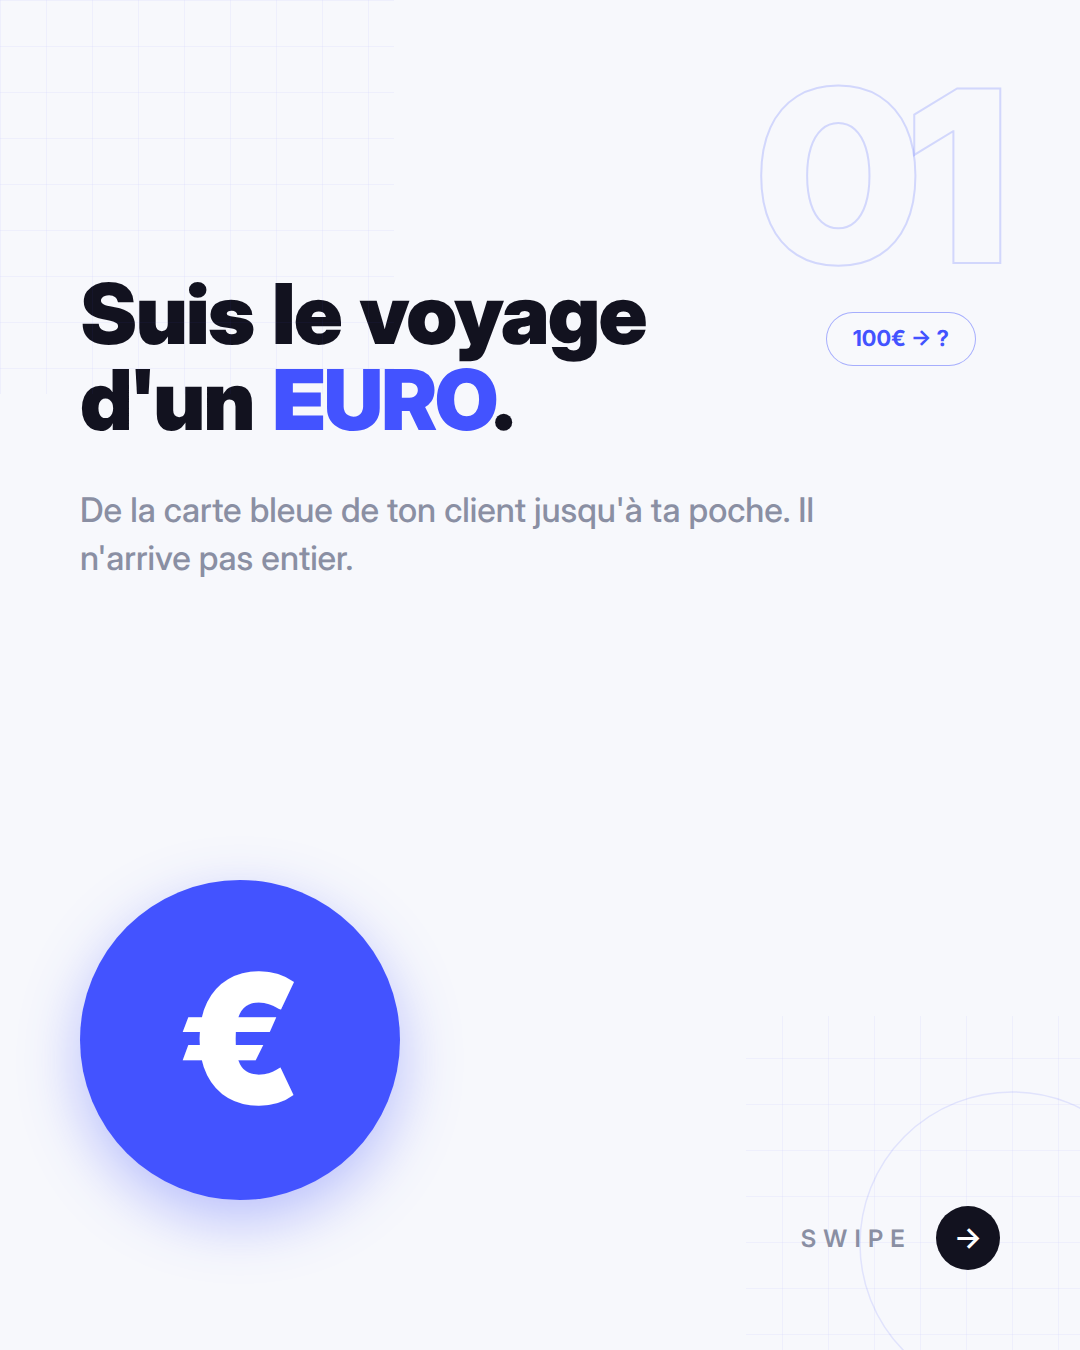
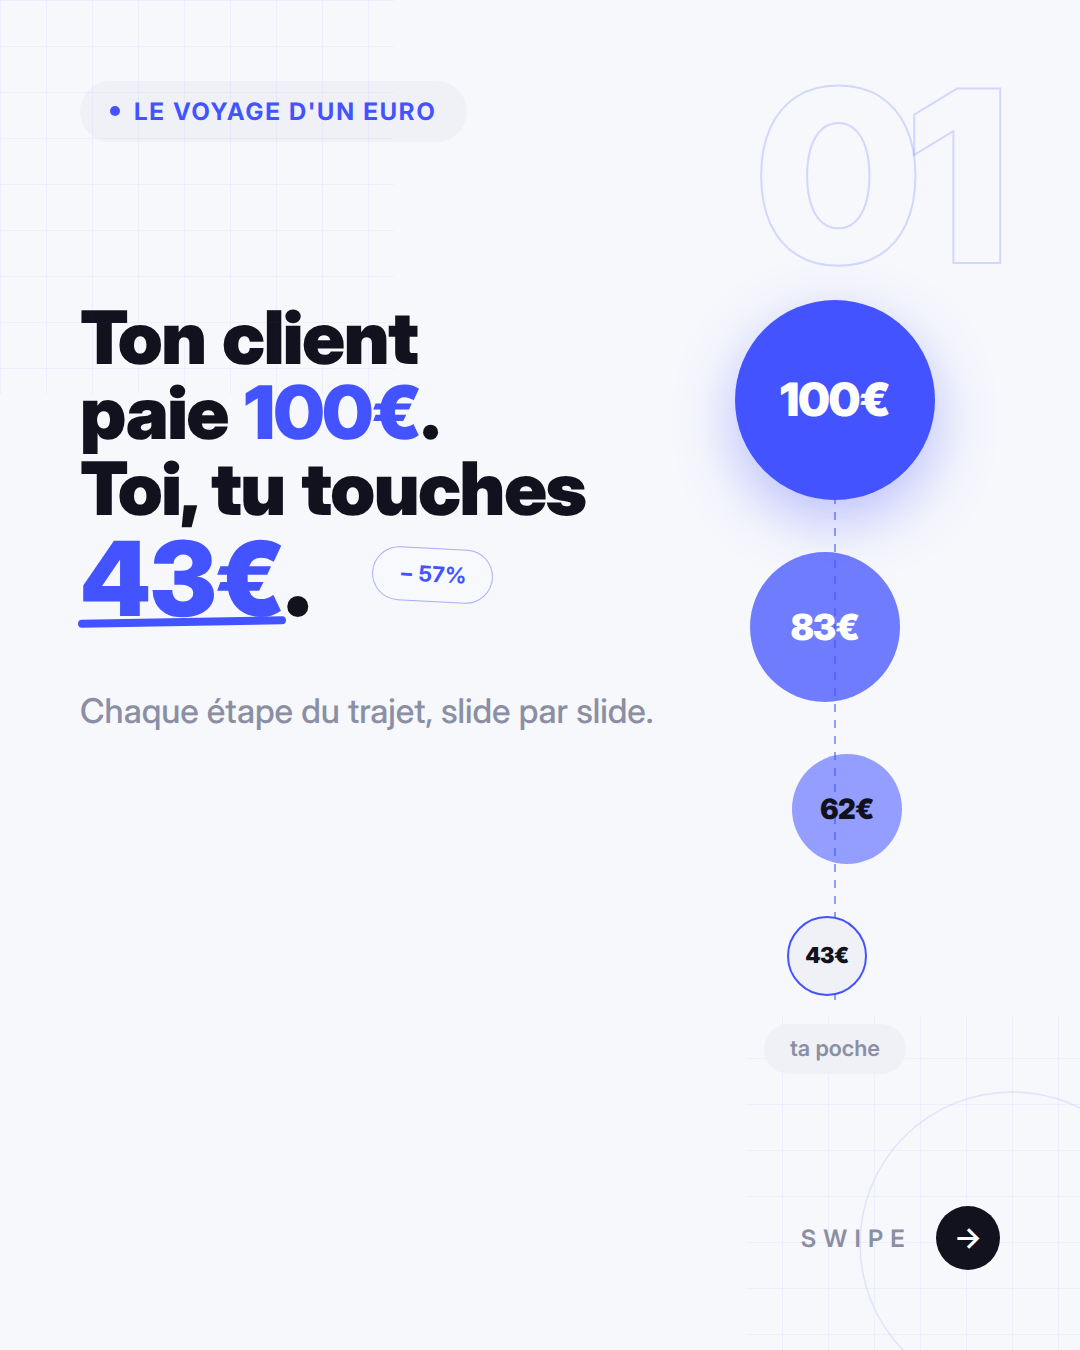
Nouvelle couverture du deck euro : l'euro qui fond en tombant
Colonne de 4 pieces decroissantes (200 -> 150 -> 110 -> 80px) sur un
fil de chute pointille, decalees horizontalement en alternance, avec
une pastille « ta poche » sous la derniere. Titre sur 4 lignes, « 43€ »
a 1,4x souligne d'un trait bleu incline, badge flottant « − 57% ».

Le blanc sur la piece a 55% d'opacite tombait a 2,47:1, sous le seuil
de 3:1 du grand texte gras : « 62€ » aurait ete illisible en taille
feed. Texte de cette piece passe en #12121F (7,52:1). Le degrade
d'opacite des pieces est conserve tel quel.

Verifie a 300px de large : les quatre montants et le titre restent
lisibles.

Claude-Session: https://claude.ai/code/session_01JgjaVc8GDMA4sZRNpbXpxq

diff --git a/carrousel/src/style.css b/carrousel/src/style.css
@@ -285,3 +285,41 @@ html, body {
   display: flex; align-items: center; justify-content: center;
 }
 .coin span { font-size: 180px; font-weight: 900; color: #FFFFFF; line-height: 1; }
+
+/* ============================================================
+   COUVERTURE « voyage d'un euro » — colonne de pièces qui fondent
+   ============================================================ */
+.coins { position: absolute; top: 300px; right: 80px; width: 330px; }
+.coins::before {                      /* fil de chute pointillé, derrière les pièces */
+  content: ''; position: absolute; left: 50%; top: 84px; bottom: 74px;
+  width: 2px; margin-left: -1px;
+  background: repeating-linear-gradient(to bottom,
+              rgba(67, 83, 255, 0.55) 0 8px, transparent 8px 16px);
+}
+.coins-col { position: relative; display: flex; flex-direction: column; align-items: center; gap: 52px; }
+
+.coin-x {
+  border-radius: 50%; display: flex; align-items: center; justify-content: center;
+  font-weight: 900; letter-spacing: -0.02em; color: #FFFFFF;
+  position: relative; z-index: 1; flex: none;
+}
+.coin-1 { width: 200px; height: 200px; background: var(--blue); box-shadow: var(--shadow-blue); font-size: 46px; }
+.coin-2 { width: 150px; height: 150px; background: rgba(67, 83, 255, 0.75); font-size: 36px; }
+/* pièce 3 : sur ce bleu délavé le blanc tombe à 2,47:1 — texte en noir (7,52:1) */
+.coin-3 { width: 110px; height: 110px; background: rgba(67, 83, 255, 0.55); font-size: 28px; color: var(--ink); }
+.coin-4 { width: 80px;  height: 80px;  background: var(--card); border: 2px solid var(--blue); color: var(--ink); font-size: 22px; }
+
+.coin-tag {
+  position: relative; z-index: 1;
+  margin: 28px auto 0; display: table;
+  background: var(--card); border-radius: 999px; padding: 12px 26px;
+  font-size: 22px; font-weight: 600; color: var(--grey);
+}
+
+/* « 43€ » souligné d'un trait bleu épais légèrement incliné */
+.u-thick { position: relative; display: inline-block; }
+.u-thick::after {
+  content: ''; position: absolute; left: -2px; right: -2px; bottom: 6px;
+  height: 8px; border-radius: 4px; background: var(--blue);
+  transform: rotate(-1deg);
+}

diff --git a/carrousel/src/slides-euro.js b/carrousel/src/slides-euro.js
@@ -34,17 +34,36 @@ const mini = (pct, val) => gauge({ pct, val, mod: 'gauge--mini' });
 
 module.exports = { DECOR, slides: [
 
-  /* ================= 01 · HOOK ================= */
+  /* ================= 01 · COUVERTURE ================= */
   {
     main: `
-      <div class="head"></div>
-      <h1 class="title title--hero">Suis le voyage<br>d'un <span class="blue">EURO</span>.</h1>
-      <span class="float" style="top:312px;right:104px">100€ &rarr; ?</span>
-      <p class="body muted" style="margin-top:44px;max-width:820px;font-size:34px">
-        De la carte bleue de ton client jusqu'à ta poche.
-        Il n'arrive pas entier.
+      ${badge("LE VOYAGE D'UN EURO")}
+
+      <h1 class="title" style="margin-top:158px;font-size:74px;max-width:620px">
+        Ton client<br>
+        paie <span class="blue">100€</span>.<br>
+        Toi, tu touches<br>
+        <span style="font-size:1.4em;line-height:1.02;display:inline-block">
+          <span class="blue u-thick">43€</span>.
+        </span>
+      </h1>
+
+      <span class="float" style="top:548px;left:372px;transform:rotate(3deg)">&minus;&nbsp;57%</span>
+
+      <p class="muted" style="margin-top:56px;max-width:620px;font-size:34px;font-weight:500;line-height:1.4">
+        Chaque étape du trajet, slide par slide.
       </p>
-      <div class="coin bleed"><span>€</span></div>
+
+      <div class="coins bleed">
+        <div class="coins-col">
+          <div class="coin-x coin-1" style="transform:translateX(0)">100€</div>
+          <div class="coin-x coin-2" style="transform:translateX(-10px)">83€</div>
+          <div class="coin-x coin-3" style="transform:translateX(12px)">62€</div>
+          <div class="coin-x coin-4" style="transform:translateX(-8px)">43€</div>
+        </div>
+        <div class="coin-tag">ta poche</div>
+      </div>
+
       <div class="swipe" style="position:absolute;bottom:80px;right:80px">
         <span class="swipe-txt">SWIPE</span><span class="swipe-dot">&rarr;</span>
       </div>`

diff --git a/carrousel/slides/euro/slide-01.html b/carrousel/slides/euro/slide-01.html
@@ -20,14 +20,33 @@
 </svg>
   <div class="num">01</div>
 
-      <div class="head"></div>
-      <h1 class="title title--hero">Suis le voyage<br>d'un <span class="blue">EURO</span>.</h1>
-      <span class="float" style="top:312px;right:104px">100€ &rarr; ?</span>
-      <p class="body muted" style="margin-top:44px;max-width:820px;font-size:34px">
-        De la carte bleue de ton client jusqu'à ta poche.
-        Il n'arrive pas entier.
+      <div class="head"><span class="badge">LE VOYAGE D'UN EURO</span></div>
+
+      <h1 class="title" style="margin-top:158px;font-size:74px;max-width:620px">
+        Ton client<br>
+        paie <span class="blue">100€</span>.<br>
+        Toi, tu touches<br>
+        <span style="font-size:1.4em;line-height:1.02;display:inline-block">
+          <span class="blue u-thick">43€</span>.
+        </span>
+      </h1>
+
+      <span class="float" style="top:548px;left:372px;transform:rotate(3deg)">&minus;&nbsp;57%</span>
+
+      <p class="muted" style="margin-top:56px;max-width:620px;font-size:34px;font-weight:500;line-height:1.4">
+        Chaque étape du trajet, slide par slide.
       </p>
-      <div class="coin bleed"><span>€</span></div>
+
+      <div class="coins bleed">
+        <div class="coins-col">
+          <div class="coin-x coin-1" style="transform:translateX(0)">100€</div>
+          <div class="coin-x coin-2" style="transform:translateX(-10px)">83€</div>
+          <div class="coin-x coin-3" style="transform:translateX(12px)">62€</div>
+          <div class="coin-x coin-4" style="transform:translateX(-8px)">43€</div>
+        </div>
+        <div class="coin-tag">ta poche</div>
+      </div>
+
       <div class="swipe" style="position:absolute;bottom:80px;right:80px">
         <span class="swipe-txt">SWIPE</span><span class="swipe-dot">&rarr;</span>
       </div>
